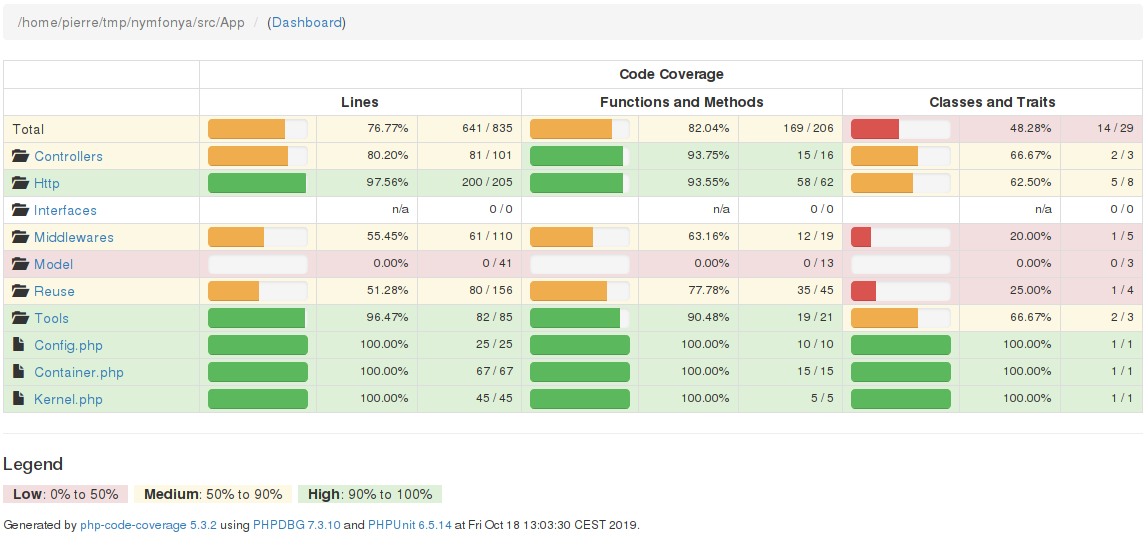
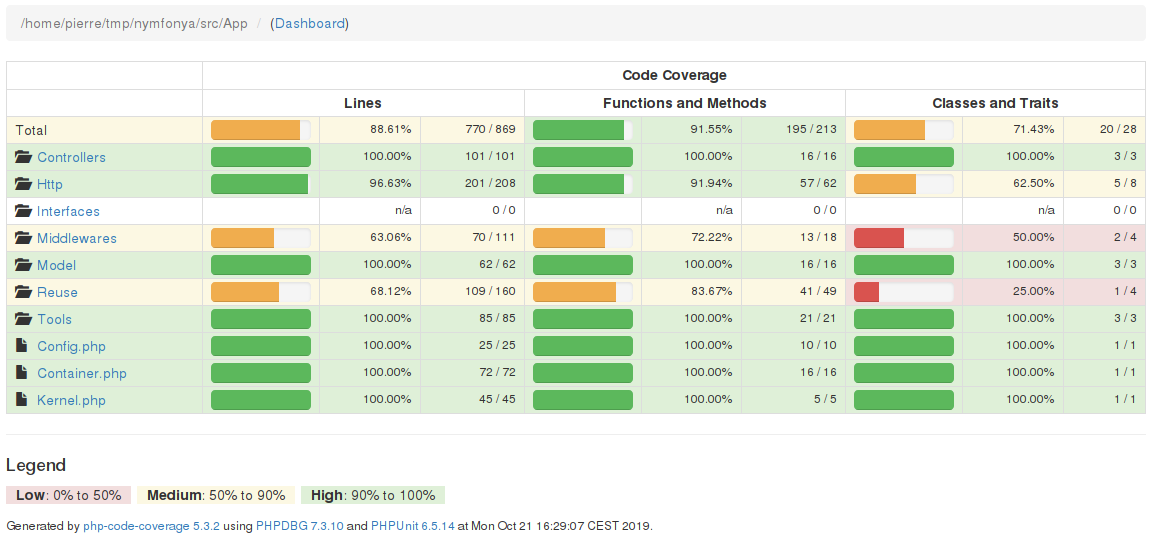
doc/nymfonia : README code coverage

diff --git a/README.md b/README.md
@@ -163,7 +163,7 @@ or targeted test replacing in above command 'test' by :
 * testResponse
 * testRoutes
 * testRouter
-* to be continued...
+* ...@see composer.json
 
 To get the code coverage the command below then browse coverage/index.html file.  
 
@@ -255,7 +255,7 @@ I attempted to keep the code :
 
 * short.
 * readable and annotated.
-* testable (Wip 50% methods coverage).
+* testable (Wip 91% methods coverage).
 * explicit.
 * decoupled.
 * linted.
